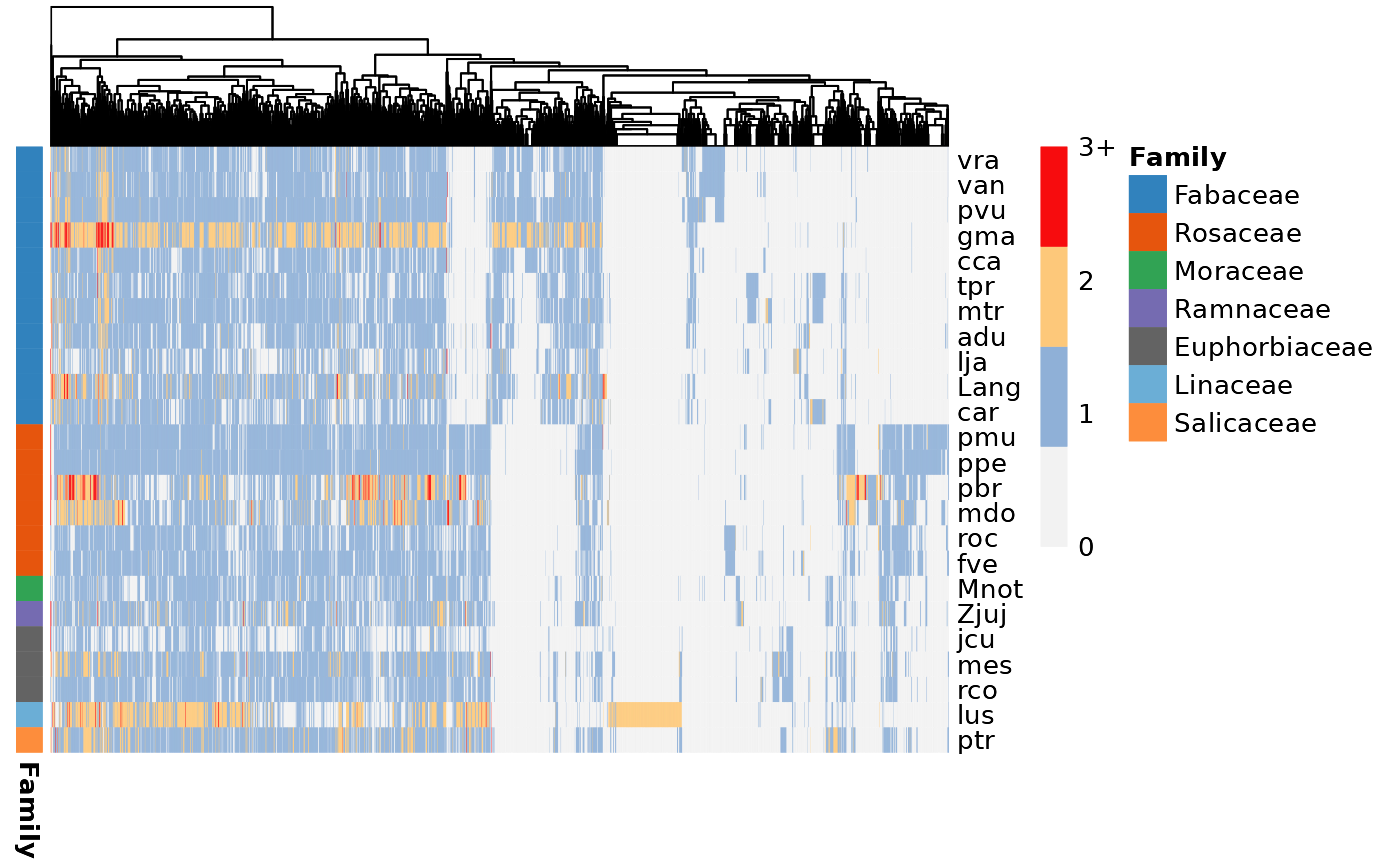
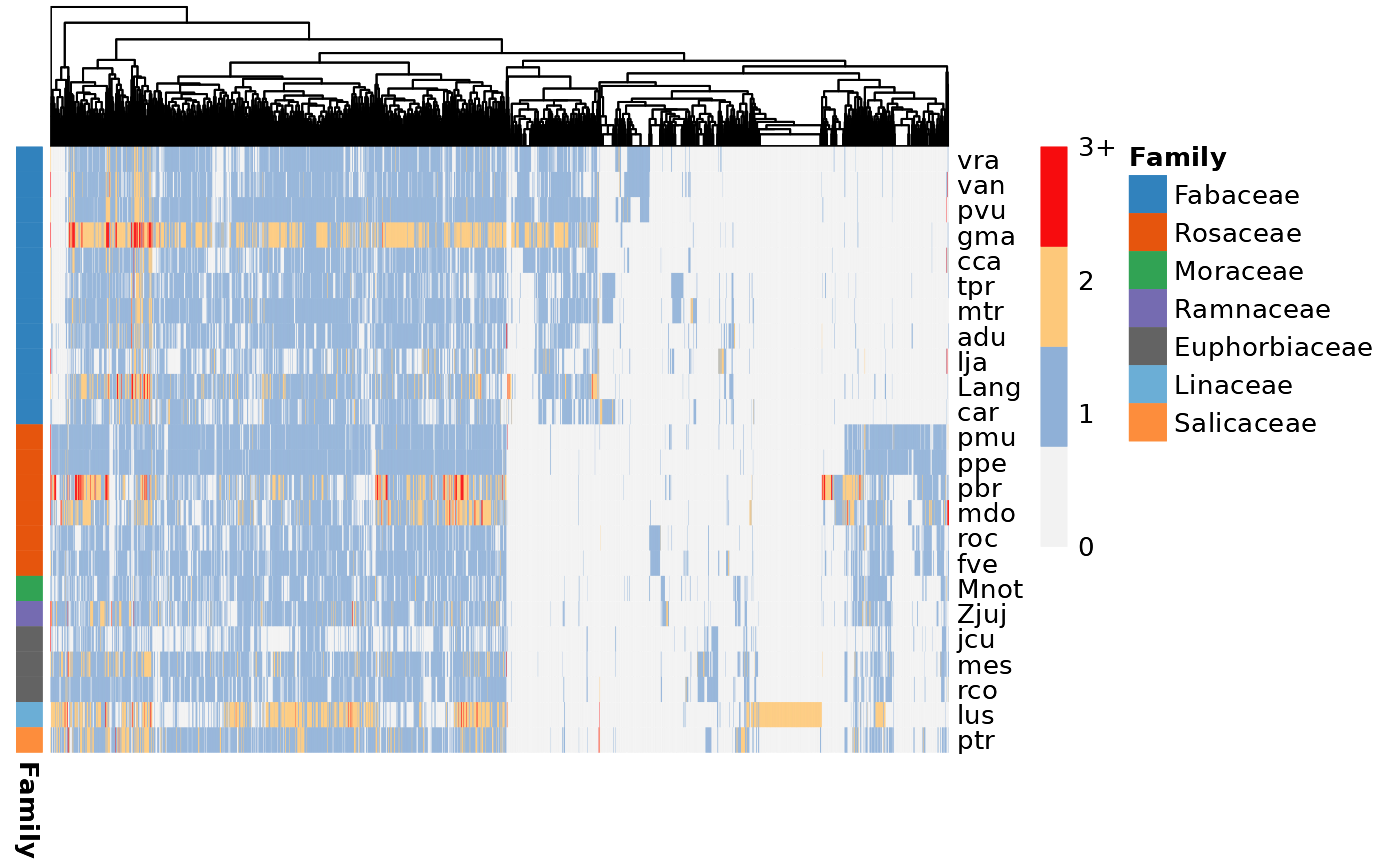
Built site for syntenet: 0.99.0@76b4749

Changed region(s): [[0.0307, 0.0312, 0.6757, 0.874], [0.0614, 0.0, 0.215, 0.0312], [0.5836, 0.2497, 0.6143, 0.2809]]

diff --git a/articles/syntenet.html b/articles/syntenet.html
@@ -453,15 +453,15 @@ matrix.</p></li>
 <span class="co"># Exploring the output</span>
 <span class="fu"><a href="https://rdrr.io/r/utils/str.html" class="external-link">str</a></span><span class="op">(</span><span class="va">profiles</span><span class="op">)</span>
 <span class="co">#&gt; List of 2</span>
-<span class="co">#&gt;  $ profile_matrix: int [1:2411, 1:25] 1 1 1 1 1 1 1 1 1 1 ...</span>
+<span class="co">#&gt;  $ profile_matrix: int [1:2410, 1:25] 1 1 1 1 1 1 1 1 1 1 ...</span>
 <span class="co">#&gt;   ..- attr(*, "dimnames")=List of 2</span>
-<span class="co">#&gt;   .. ..$ : chr [1:2411] "335" "262" "1142" "1202" ...</span>
+<span class="co">#&gt;   .. ..$ : chr [1:2410] "335" "262" "1142" "1202" ...</span>
 <span class="co">#&gt;   .. ..$ : chr [1:25] "adu" "car" "cca" "fve" ...</span>
 <span class="co">#&gt;  $ hclust        :List of 7</span>
-<span class="co">#&gt;   ..$ merge      : int [1:2410, 1:2] -18 -1125 -21 -1010 -36 -83 -1174 -115 -125 -127 ...</span>
-<span class="co">#&gt;   ..$ height     : num [1:2410] 0 0 0 0 0 0 0 0 0 0 ...</span>
-<span class="co">#&gt;   ..$ order      : int [1:2411] 335 262 1142 1202 1258 395 1393 663 599 595 ...</span>
-<span class="co">#&gt;   ..$ labels     : chr [1:2411] "1" "2" "3" "4" ...</span>
+<span class="co">#&gt;   ..$ merge      : int [1:2409, 1:2] -18 -1125 -21 -1010 -36 -83 -1174 -115 -125 -127 ...</span>
+<span class="co">#&gt;   ..$ height     : num [1:2409] 0 0 0 0 0 0 0 0 0 0 ...</span>
+<span class="co">#&gt;   ..$ order      : int [1:2410] 335 262 1142 1202 1258 395 1392 663 599 595 ...</span>
+<span class="co">#&gt;   ..$ labels     : chr [1:2410] "1" "2" "3" "4" ...</span>
 <span class="co">#&gt;   ..$ method     : chr "ward.D"</span>
 <span class="co">#&gt;   ..$ call       : language stats::hclust(d = dist_mat, method = "ward.D")</span>
 <span class="co">#&gt;   ..$ dist.method: chr "jaccard"</span>
@@ -534,10 +534,10 @@ annotation (i.e., species groups).</p>
 <span class="co">#&gt;        Group Percentage Cluster</span>
 <span class="co">#&gt; 2   Fabaceae      90.91    1156</span>
 <span class="co">#&gt; 21  Fabaceae      81.82    1170</span>
-<span class="co">#&gt; 5  Ramnaceae     100.00    1279</span>
-<span class="co">#&gt; 22  Fabaceae      90.91    1305</span>
-<span class="co">#&gt; 23  Fabaceae      81.82    1309</span>
-<span class="co">#&gt; 24  Fabaceae      90.91    1310</span>
+<span class="co">#&gt; 5  Ramnaceae     100.00    1278</span>
+<span class="co">#&gt; 22  Fabaceae      90.91    1304</span>
+<span class="co">#&gt; 23  Fabaceae      81.82    1308</span>
+<span class="co">#&gt; 24  Fabaceae      90.91    1309</span>
 
 <span class="co"># How many family-specific clusters are there?</span>
 <span class="fu"><a href="https://rdrr.io/r/base/nrow.html" class="external-link">nrow</a></span><span class="op">(</span><span class="va">gs_clusters</span><span class="op">)</span>
@@ -596,8 +596,8 @@ visualize the group-specific clusters.</p>
 <span class="co"># 4) Interactive visualization</span>
 <span class="fu"><a href="../reference/plot_network.html">plot_network</a></span><span class="op">(</span><span class="va">network</span>, <span class="va">clusters</span>, cluster_id <span class="op">=</span> <span class="va">id</span>, 
              interactive <span class="op">=</span> <span class="cn">TRUE</span>, dim_interactive <span class="op">=</span> <span class="fu"><a href="https://rdrr.io/r/base/c.html" class="external-link">c</a></span><span class="op">(</span><span class="fl">500</span>, <span class="fl">400</span><span class="op">)</span><span class="op">)</span></code></pre></div>
-<div id="htmlwidget-1a1250608a74a5dbbc6c" style="width:500px;height:400px;" class="forceNetwork html-widget"></div>
-<script type="application/json" data-for="htmlwidget-1a1250608a74a5dbbc6c">{"x":{"links":{"source":[8,2,1,4,7,0,3,6,10,2,16,6,8,9,3,7,12,4,1,11,5,14,0,7,21,4,12,22,11,23,1,6,18,16,26,7,13,21,27,22,12,4,10,2,17,3,15,20,17,33,2,10,8,19,9,16,30,18,6,33,35,10,5,24,29,3,20,34,15,36,9,8,19,8,19,36,9,41,24,39,5,0,14,25,28,1,23,11,22,27,32,4,12,19,36,8,9,42,41,43,39,24,40,34,20,3,18,6,16,30,37,31,7,21,13,26,33,35,38,17,2,10,20,3,40,15,49,34,30,50,6,18,16,37,47,8,9,41,36,42,39,24,5,43,48,0,25,44,14,21,31,51,26,7,13,46,27,32,22,12,4,11,28,23,45,1,26,7,58,31,51,21,4,22,59,46,12,27,32,1,11,28,60,45,23,18,54,6,30,50,37,16,10,38,35,2,17,52,33,47,19,41,36,9,42,8,24,43,56,5,39,48,34,53,20,49,40,3,57,44,25,0,14,24,67,56,48,39,43,5,61,13,7,31,21,26,58,51,12,59,4,62,27,22,46,32,18,6,37,16,30,64,50,54,53,11,63,45,23,1,60,28,36,47,55,41,9,66,42,8,19,4,72,22,12,46,62,59,32,27,21,71,58,61,7,51,31,26,52,33,35,10,65,43,56,48,67,70,5,24,39,75,45,11,1,63,23,60,28,18,37,50,73,16,30,54,64,6,23,28,11,60,45,63,81,1,75,20,34,3,68,49,53,40,41,66,55,8,42,47,19,9,76,36,26,58,51,71,21,31,61,7,78,46,27,12,77,32,22,62,72,4,59,6,50,64,37,82,18,30,73,16,54,52,35,10,79,33,65,67,56,24,70,5,43,39,48,80,91],"target":[9,10,11,12,13,14,15,16,17,17,18,18,19,19,20,21,22,22,23,23,24,25,25,26,26,27,27,27,28,28,28,30,30,30,31,31,31,31,32,32,32,32,33,33,33,34,34,34,35,35,35,35,36,36,36,37,37,37,37,38,38,38,39,39,39,40,40,40,40,41,41,41,41,42,42,42,42,42,43,43,43,44,44,44,45,45,45,45,46,46,46,46,46,47,47,47,47,47,47,48,48,48,49,49,49,49,50,50,50,50,50,51,51,51,51,51,52,52,52,52,52,52,53,53,53,53,53,53,54,54,54,54,54,54,55,55,55,55,55,55,56,56,56,56,56,57,57,57,57,58,58,58,58,58,58,59,59,59,59,59,59,60,60,60,60,60,61,61,61,61,61,61,62,62,62,62,62,62,62,63,63,63,63,63,63,64,64,64,64,64,64,64,65,65,65,65,65,65,65,66,66,66,66,66,66,66,67,67,67,67,67,67,68,68,68,68,68,68,69,69,69,69,69,70,70,70,70,70,70,70,71,71,71,71,71,71,71,71,72,72,72,72,72,72,72,72,73,73,73,73,73,73,73,73,74,75,75,75,75,75,75,75,76,76,76,76,76,76,76,76,76,77,77,77,77,77,77,77,77,77,78,78,78,78,78,78,78,78,79,79,79,79,79,80,80,80,80,80,80,80,80,81,81,81,81,81,81,81,81,82,82,82,82,82,82,82,82,82,83,83,83,83,83,83,83,83,83,84,84,84,84,84,84,84,85,85,85,85,85,85,85,85,85,85,86,86,86,86,86,86,86,86,86,87,87,87,87,87,87,87,87,87,87,88,88,88,88,88,88,88,88,88,88,89,89,89,89,89,89,90,90,90,90,90,90,90,90,90,92],"colour":["#666","#666","#666","#666","#666","#666","#666","#666","#666","#666","#666","#666","#666","#666","#666","#666","#666","#666","#666","#666","#666","#666","#666","#666","#666","#666","#666","#666","#666","#666","#666","#666","#666","#666","#666","#666","#666","#666","#666","#666","#666","#666","#666","#666","#666","#666","#666","#666","#666","#666","#666","#666","#666","#666","#666","#666","#666","#666","#666","#666","#666","#666","#666","#666","#666","#666","#666","#666","#666","#666","#666","#666","#666","#666","#666","#666","#666","#666","#666","#666","#666","#666","#666","#666","#666","#666","#666","#666","#666","#666","#666","#666","#666","#666","#666","#666","#666","#666","#666","#666","#666","#666","#666","#666","#666","#666","#666","#666","#666","#666","#666","#666","#666","#666","#666","#666","#666","#666","#666","#666","#666","#666","#666","#666","#666","#666","#666","#666","#666","#666","#666","#666","#666","#666","#666","#666","#666","#666","#666","#666","#666","#666","#666","#666","#666","#666","#666","#666","#666","#666","#666","#666","#666","#666","#666","#666","#666","#666","#666","#666","#666","#666","#666","#666","#666","#666","#666","#666","#666","#666","#666","#666","#666","#666","#666","#666","#666","#666","#666","#666","#666","#666","#666","#666","#666","#666","#666","#666","#666","#666","#666","#666","#666","#666","#666","#666","#666","#666","#666","#666","#666","#666","#666","#666","#666","#666","#666","#666","#666","#666","#666","#666","#666","#666","#666","#666","#666","#666","#666","#666","#666","#666","#666","#666","#666","#666","#666","#666","#666","#666","#666","#666","#666","#666","#666","#666","#666","#666","#666","#666","#666","#666","#666","#666","#666","#666","#666","#666","#666","#666","#666","#666","#666","#666","#666","#666","#666","#666","#666","#666","#666","#666","#666","#666","#666","#666","#666","#666","#666","#666","#666","#666","#666","#666","#666","#666","#666","#666","#666","#666","#666","#666","#666","#666","#666","#666","#666","#666","#666","#666","#666","#666","#666","#666","#666","#666","#666","#666","#666","#666","#666","#666","#666","#666","#666","#666","#666","#666","#666","#666","#666","#666","#666","#666","#666","#666","#666","#666","#666","#666","#666","#666","#666","#666","#666","#666","#666","#666","#666","#666","#666","#666","#666","#666","#666","#666","#666","#666","#666","#666","#666","#666","#666","#666","#666","#666","#666","#666","#666","#666","#666","#666","#666","#666","#666","#666","#666","#666","#666","#666","#666","#666","#666","#666","#666","#666","#666","#666","#666","#666","#666","#666","#666","#666","#666","#666","#666","#666","#666","#666","#666","#666","#666","#666","#666","#666","#666","#666","#666"]},"nodes":{"name":["adu_Aradu.2RW34","adu_Aradu.69509","adu_Aradu.AV6RW","adu_Aradu.CCF7R","adu_Aradu.DLL0U","adu_Aradu.E0LH8","adu_Aradu.JF3WA","adu_Aradu.K4FRV","adu_Aradu.R0IMB","car_03056.1","car_08943.1","car_15808.1","car_16250.1","car_16254.1","car_16284.1","car_17177.1","car_19495.1","cca_02211","cca_04052","cca_05788","cca_21129","cca_23316","cca_23319","cca_23498","gma_03G097900","gma_05G151000","gma_05G155700","gma_05G155900","gma_05G189200","gma_07G124000","gma_07G238400","gma_08G113500","gma_08G113800","gma_10G041100","gma_11G109300","gma_13G128000","gma_14G033200","gma_17G035000","Lang_109346054","Lang_109352113","Lang_109355583","Lang_109355854","Lang_109359285","Lang_109362187","Lang_109362745","Lang_109362916","lja_0g3v0036869.1lja","lja_2g3v3059790.1lja","lja_3g3v0642560.1lja","lja_3g3v3639380.1lja","lja_4g3v2263980.1lja","lja_4g3v2603960.1lja","mtr_1g069385","mtr_4g078190","mtr_4g122270","mtr_5g090150","mtr_8g009900","mtr_8g083220","mtr_8g085640","mtr_8g085700","mtr_8g093080","pvu_002G235800","pvu_002G236200","pvu_002G269900","pvu_003G116100","pvu_007G154300","pvu_008G199500","pvu_010G038400","pvu_011G018400","tpr_gene11890","tpr_gene17355","tpr_gene24369","tpr_gene24371","tpr_gene25402","tpr_gene28023","tpr_gene37318","van_01g01830.1","van_0217s00330.1","van_0217s00360.1","van_06g14500.1","van_08g06220.1","van_10g04530.1","van_11g16300.1","vra_01g10980","vra_02g01410","vra_06g02600","vra_07g16870","vra_07g16900","vra_07g24530","vra_08g07810","vra_09g06430","Zjuj_107406488","Zjuj_107435072"],"group":["1312","1310","1309","1315","1314","1170","1305","1313","1156","1156","1309","1310","1314","1313","1312","1315","1305","1309","1305","1156","1315","1313","1314","1310","1170","1312","1313","1314","1310","1170","1305","1313","1314","1309","1315","1309","1156","1305","1309","1170","1315","1156","1156","1170","1312","1310","1314","1156","1170","1315","1305","1313","1309","1315","1305","1156","1170","1312","1313","1314","1310","1313","1314","1310","1305","1309","1156","1170","1315","1312","1170","1313","1314","1305","1315","1310","1156","1314","1313","1309","1170","1310","1305","1310","1315","1156","1313","1314","1305","1309","1170","1279","1279"],"nodesize":[" 5"," 9"," 6"," 8","10"," 8","10","10","10","10"," 9"," 9","10"," 5"," 5"," 4","10"," 6","10"," 9"," 7"," 9","10"," 9"," 9"," 5"," 9","10"," 9"," 1","10","10","10"," 9"," 8"," 9","10","10"," 5","10"," 8","10","10"," 9"," 5"," 9","10","10"," 8"," 7","10","10"," 9"," 9","10"," 8"," 9"," 5","10","10"," 9"," 9","10"," 9","10"," 9"," 9"," 9"," 7"," 5"," 9","10","10","10"," 1"," 9","10","10"," 9"," 6"," 9"," 9","10"," 9"," 7","10"," 9","10","10"," 6"," 9"," 1"," 1"]},"options":{"NodeID":"name","Group":"Class","colourScale":"d3.scaleOrdinal(d3.schemeCategory20);","fontSize":12,"fontFamily":"serif","clickTextSize":30,"linkDistance":50,"linkWidth":"function(d) { return Math.sqrt(d.value); }","charge":-30,"opacity":0.8,"zoom":true,"legend":false,"arrows":false,"nodesize":true,"radiusCalculation":" Math.sqrt(d.nodesize)+6","bounded":false,"opacityNoHover":0,"clickAction":null}},"evals":[],"jsHooks":[]}</script>
+<div id="htmlwidget-8919b7250f05ec99404f" style="width:500px;height:400px;" class="forceNetwork html-widget"></div>
+<script type="application/json" data-for="htmlwidget-8919b7250f05ec99404f">{"x":{"links":{"source":[8,2,1,4,7,0,3,6,10,2,16,6,8,9,3,7,12,4,1,11,5,14,0,7,21,4,12,22,11,23,1,6,18,16,26,7,13,21,27,22,12,4,10,2,17,3,15,20,17,33,2,10,8,19,9,16,30,18,6,33,35,10,5,24,29,3,20,34,15,36,9,8,19,8,19,36,9,41,24,39,5,0,14,25,28,1,23,11,22,27,32,4,12,19,36,8,9,42,41,43,39,24,40,34,20,3,18,6,16,30,37,31,7,21,13,26,33,35,38,17,2,10,20,3,40,15,49,34,30,50,6,18,16,37,47,8,9,41,36,42,39,24,5,43,48,0,25,44,14,21,31,51,26,7,13,46,27,32,22,12,4,11,28,23,45,1,26,7,58,31,51,21,4,22,59,46,12,27,32,1,11,28,60,45,23,18,54,6,30,50,37,16,10,38,35,2,17,52,33,47,19,41,36,9,42,8,24,43,56,5,39,48,34,53,20,49,40,3,57,44,25,0,14,24,67,56,48,39,43,5,61,13,7,31,21,26,58,51,12,59,4,62,27,22,46,32,18,6,37,16,30,64,50,54,53,11,63,45,23,1,60,28,36,47,55,41,9,66,42,8,19,4,72,22,12,46,62,59,32,27,21,71,58,61,7,51,31,26,52,33,35,10,65,43,56,48,67,70,5,24,39,75,45,11,1,63,23,60,28,18,37,50,73,16,30,54,64,6,23,28,11,60,45,63,81,1,75,20,34,3,68,49,53,40,41,66,55,8,42,47,19,9,76,36,26,58,51,71,21,31,61,7,78,46,27,12,77,32,22,62,72,4,59,6,50,64,37,82,18,30,73,16,54,52,35,10,79,33,65,67,56,24,70,5,43,39,48,80,91],"target":[9,10,11,12,13,14,15,16,17,17,18,18,19,19,20,21,22,22,23,23,24,25,25,26,26,27,27,27,28,28,28,30,30,30,31,31,31,31,32,32,32,32,33,33,33,34,34,34,35,35,35,35,36,36,36,37,37,37,37,38,38,38,39,39,39,40,40,40,40,41,41,41,41,42,42,42,42,42,43,43,43,44,44,44,45,45,45,45,46,46,46,46,46,47,47,47,47,47,47,48,48,48,49,49,49,49,50,50,50,50,50,51,51,51,51,51,52,52,52,52,52,52,53,53,53,53,53,53,54,54,54,54,54,54,55,55,55,55,55,55,56,56,56,56,56,57,57,57,57,58,58,58,58,58,58,59,59,59,59,59,59,60,60,60,60,60,61,61,61,61,61,61,62,62,62,62,62,62,62,63,63,63,63,63,63,64,64,64,64,64,64,64,65,65,65,65,65,65,65,66,66,66,66,66,66,66,67,67,67,67,67,67,68,68,68,68,68,68,69,69,69,69,69,70,70,70,70,70,70,70,71,71,71,71,71,71,71,71,72,72,72,72,72,72,72,72,73,73,73,73,73,73,73,73,74,75,75,75,75,75,75,75,76,76,76,76,76,76,76,76,76,77,77,77,77,77,77,77,77,77,78,78,78,78,78,78,78,78,79,79,79,79,79,80,80,80,80,80,80,80,80,81,81,81,81,81,81,81,81,82,82,82,82,82,82,82,82,82,83,83,83,83,83,83,83,83,83,84,84,84,84,84,84,84,85,85,85,85,85,85,85,85,85,85,86,86,86,86,86,86,86,86,86,87,87,87,87,87,87,87,87,87,87,88,88,88,88,88,88,88,88,88,88,89,89,89,89,89,89,90,90,90,90,90,90,90,90,90,92],"colour":["#666","#666","#666","#666","#666","#666","#666","#666","#666","#666","#666","#666","#666","#666","#666","#666","#666","#666","#666","#666","#666","#666","#666","#666","#666","#666","#666","#666","#666","#666","#666","#666","#666","#666","#666","#666","#666","#666","#666","#666","#666","#666","#666","#666","#666","#666","#666","#666","#666","#666","#666","#666","#666","#666","#666","#666","#666","#666","#666","#666","#666","#666","#666","#666","#666","#666","#666","#666","#666","#666","#666","#666","#666","#666","#666","#666","#666","#666","#666","#666","#666","#666","#666","#666","#666","#666","#666","#666","#666","#666","#666","#666","#666","#666","#666","#666","#666","#666","#666","#666","#666","#666","#666","#666","#666","#666","#666","#666","#666","#666","#666","#666","#666","#666","#666","#666","#666","#666","#666","#666","#666","#666","#666","#666","#666","#666","#666","#666","#666","#666","#666","#666","#666","#666","#666","#666","#666","#666","#666","#666","#666","#666","#666","#666","#666","#666","#666","#666","#666","#666","#666","#666","#666","#666","#666","#666","#666","#666","#666","#666","#666","#666","#666","#666","#666","#666","#666","#666","#666","#666","#666","#666","#666","#666","#666","#666","#666","#666","#666","#666","#666","#666","#666","#666","#666","#666","#666","#666","#666","#666","#666","#666","#666","#666","#666","#666","#666","#666","#666","#666","#666","#666","#666","#666","#666","#666","#666","#666","#666","#666","#666","#666","#666","#666","#666","#666","#666","#666","#666","#666","#666","#666","#666","#666","#666","#666","#666","#666","#666","#666","#666","#666","#666","#666","#666","#666","#666","#666","#666","#666","#666","#666","#666","#666","#666","#666","#666","#666","#666","#666","#666","#666","#666","#666","#666","#666","#666","#666","#666","#666","#666","#666","#666","#666","#666","#666","#666","#666","#666","#666","#666","#666","#666","#666","#666","#666","#666","#666","#666","#666","#666","#666","#666","#666","#666","#666","#666","#666","#666","#666","#666","#666","#666","#666","#666","#666","#666","#666","#666","#666","#666","#666","#666","#666","#666","#666","#666","#666","#666","#666","#666","#666","#666","#666","#666","#666","#666","#666","#666","#666","#666","#666","#666","#666","#666","#666","#666","#666","#666","#666","#666","#666","#666","#666","#666","#666","#666","#666","#666","#666","#666","#666","#666","#666","#666","#666","#666","#666","#666","#666","#666","#666","#666","#666","#666","#666","#666","#666","#666","#666","#666","#666","#666","#666","#666","#666","#666","#666","#666","#666","#666","#666","#666","#666","#666","#666","#666","#666","#666","#666","#666","#666","#666","#666","#666","#666","#666","#666","#666"]},"nodes":{"name":["adu_Aradu.2RW34","adu_Aradu.69509","adu_Aradu.AV6RW","adu_Aradu.CCF7R","adu_Aradu.DLL0U","adu_Aradu.E0LH8","adu_Aradu.JF3WA","adu_Aradu.K4FRV","adu_Aradu.R0IMB","car_03056.1","car_08943.1","car_15808.1","car_16250.1","car_16254.1","car_16284.1","car_17177.1","car_19495.1","cca_02211","cca_04052","cca_05788","cca_21129","cca_23316","cca_23319","cca_23498","gma_03G097900","gma_05G151000","gma_05G155700","gma_05G155900","gma_05G189200","gma_07G124000","gma_07G238400","gma_08G113500","gma_08G113800","gma_10G041100","gma_11G109300","gma_13G128000","gma_14G033200","gma_17G035000","Lang_109346054","Lang_109352113","Lang_109355583","Lang_109355854","Lang_109359285","Lang_109362187","Lang_109362745","Lang_109362916","lja_0g3v0036869.1lja","lja_2g3v3059790.1lja","lja_3g3v0642560.1lja","lja_3g3v3639380.1lja","lja_4g3v2263980.1lja","lja_4g3v2603960.1lja","mtr_1g069385","mtr_4g078190","mtr_4g122270","mtr_5g090150","mtr_8g009900","mtr_8g083220","mtr_8g085640","mtr_8g085700","mtr_8g093080","pvu_002G235800","pvu_002G236200","pvu_002G269900","pvu_003G116100","pvu_007G154300","pvu_008G199500","pvu_010G038400","pvu_011G018400","tpr_gene11890","tpr_gene17355","tpr_gene24369","tpr_gene24371","tpr_gene25402","tpr_gene28023","tpr_gene37318","van_01g01830.1","van_0217s00330.1","van_0217s00360.1","van_06g14500.1","van_08g06220.1","van_10g04530.1","van_11g16300.1","vra_01g10980","vra_02g01410","vra_06g02600","vra_07g16870","vra_07g16900","vra_07g24530","vra_08g07810","vra_09g06430","Zjuj_107406488","Zjuj_107435072"],"group":["1311","1309","1308","1314","1313","1170","1304","1312","1156","1156","1308","1309","1313","1312","1311","1314","1304","1308","1304","1156","1314","1312","1313","1309","1170","1311","1312","1313","1309","1170","1304","1312","1313","1308","1314","1308","1156","1304","1308","1170","1314","1156","1156","1170","1311","1309","1313","1156","1170","1314","1304","1312","1308","1314","1304","1156","1170","1311","1312","1313","1309","1312","1313","1309","1304","1308","1156","1170","1314","1311","1170","1312","1313","1304","1314","1309","1156","1313","1312","1308","1170","1309","1304","1309","1314","1156","1312","1313","1304","1308","1170","1278","1278"],"nodesize":[" 5"," 9"," 6"," 8","10"," 8","10","10","10","10"," 9"," 9","10"," 5"," 5"," 4","10"," 6","10"," 9"," 7"," 9","10"," 9"," 9"," 5"," 9","10"," 9"," 1","10","10","10"," 9"," 8"," 9","10","10"," 5","10"," 8","10","10"," 9"," 5"," 9","10","10"," 8"," 7","10","10"," 9"," 9","10"," 8"," 9"," 5","10","10"," 9"," 9","10"," 9","10"," 9"," 9"," 9"," 7"," 5"," 9","10","10","10"," 1"," 9","10","10"," 9"," 6"," 9"," 9","10"," 9"," 7","10"," 9","10","10"," 6"," 9"," 1"," 1"]},"options":{"NodeID":"name","Group":"Class","colourScale":"d3.scaleOrdinal(d3.schemeCategory20);","fontSize":12,"fontFamily":"serif","clickTextSize":30,"linkDistance":50,"linkWidth":"function(d) { return Math.sqrt(d.value); }","charge":-30,"opacity":0.8,"zoom":true,"legend":false,"arrows":false,"nodesize":true,"radiusCalculation":" Math.sqrt(d.nodesize)+6","bounded":false,"opacityNoHover":0,"clickAction":null}},"evals":[],"jsHooks":[]}</script>
 </div>
 <div class="section level2">
 <h2 id="microsynteny-based-phylogeny-reconstruction">Microsynteny-based phylogeny reconstruction<a class="anchor" aria-label="anchor" href="#microsynteny-based-phylogeny-reconstruction"></a>

diff --git a/reference/profiles2phylip.html b/reference/profiles2phylip.html
@@ -81,7 +81,7 @@ If you want to keep the files, specify a custom output directory.</p></dd>
 <span class="r-in"><span class="va">profile_matrix</span> <span class="op">&lt;-</span> <span class="fu"><a href="phylogenomic_profile.html">phylogenomic_profile</a></span><span class="op">(</span><span class="va">clusters</span><span class="op">)</span><span class="op">$</span><span class="va">profile_matrix</span></span>
 <span class="r-in"><span class="va">tmat</span> <span class="op">&lt;-</span> <span class="fu"><a href="binarize_and_transpose.html">binarize_and_transpose</a></span><span class="op">(</span><span class="va">profile_matrix</span><span class="op">)</span></span>
 <span class="r-in"><span class="fu">profiles2phylip</span><span class="op">(</span><span class="va">tmat</span><span class="op">)</span></span>
-<span class="r-out co"><span class="r-pr">#&gt;</span> [1] "/tmp/Rtmp40hjiV/microsynteny_phylogeny_14_Apr_2022_06h21.phy"</span>
+<span class="r-out co"><span class="r-pr">#&gt;</span> [1] "/tmp/RtmpzEqe9A/microsynteny_phylogeny_14_Apr_2022_06h36.phy"</span>
 </code></pre></div>
     </div>
   </div>

diff --git a/index.html b/index.html
@@ -78,7 +78,24 @@
 </h1></div>
 <!-- badges: start -->
 
-<p>The goal of <code>syntenet</code> is to …</p>
+<p>The goal of <code>syntenet</code> is to infer synteny networks from
+protein sequence data and analyze them. Anchor pairs from synteny
+analyses are treated as an undirected unweighted graph (i.e., a synteny
+network), and users can perform:</p>
+<ul>
+<li>
+<strong>Network clustering</strong> using the Infomap
+algorithm;</li>
+<li>
+<strong>Phylogenomic profiling</strong>, which consists in
+identifying which species contain which clusters. This analysis can
+reveal highly conserved synteny clusters and taxon-specific ones (e.g.,
+family- and order-specific clusters).</li>
+<li>
+<strong>Microsynteny-based phylogeny reconstruction</strong> with
+maximum likelihood, which can be achieved by inferring a phylogeny from
+a binary matrix of phylogenomic profiles with IQTREE.</li>
+</ul>
 <div class="section level2">
 <h2 id="installation-instructions">Installation instructions<a class="anchor" aria-label="anchor" href="#installation-instructions"></a>
 </h2>
